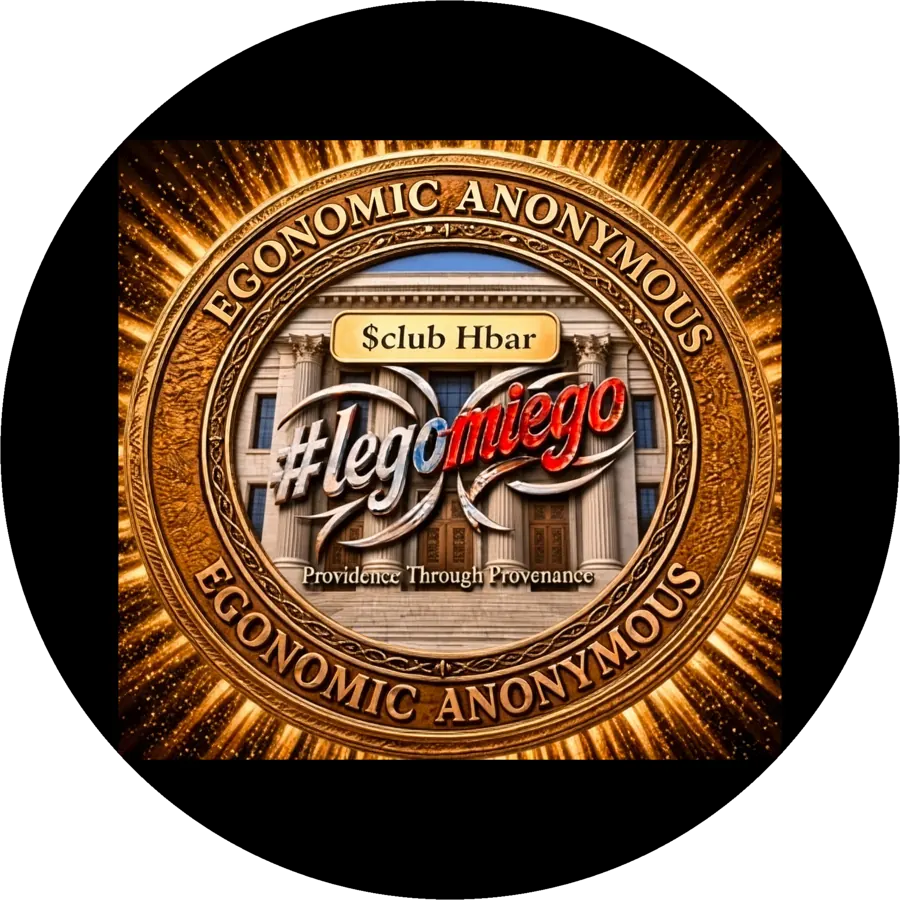
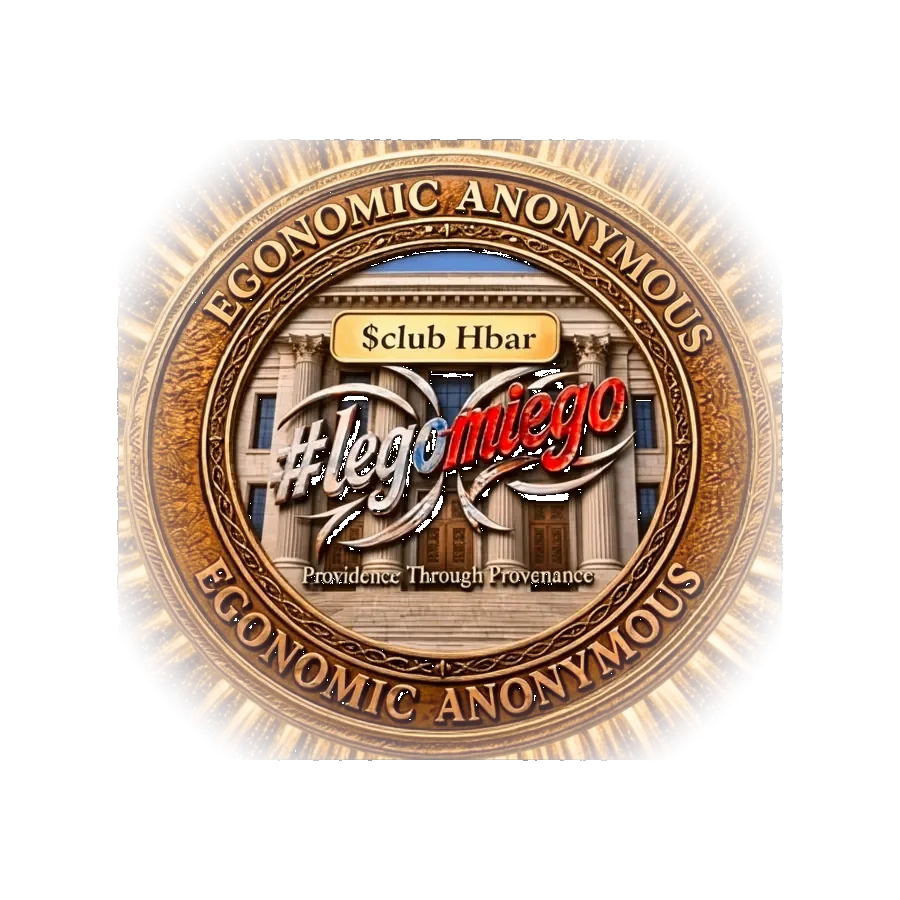
Fade the ray seal into the star field so the rim disappears.

diff --git a/src/routes/index.tsx b/src/routes/index.tsx
@@ -293,7 +293,7 @@ function Hero() {
           <img
             src="/seal-rays.webp"
             alt="Egonomic Anonymous seal with gold rays, dollar club Hbar, hashtag legomiego, Providence Through Provenance"
-            className="sky-blend aspect-square w-20 shrink-0 origin-center scale-[1.44] object-contain sm:w-24"
+            className="aspect-square w-20 shrink-0 origin-center scale-[1.44] object-contain sm:w-24"
           />
         </div>
         <Eyebrow>Secure · Transparent · Fair</Eyebrow>
